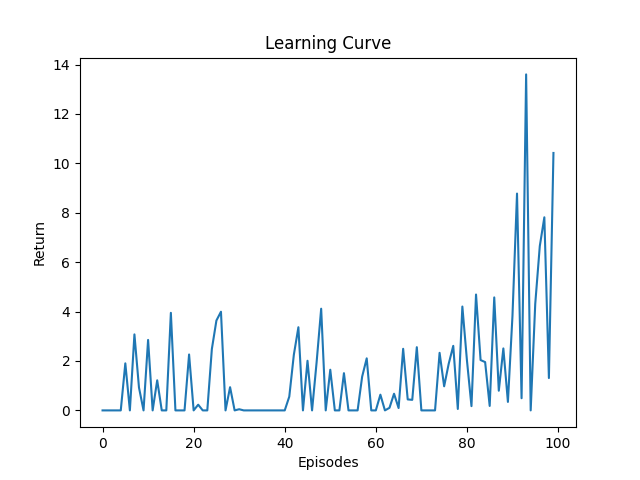
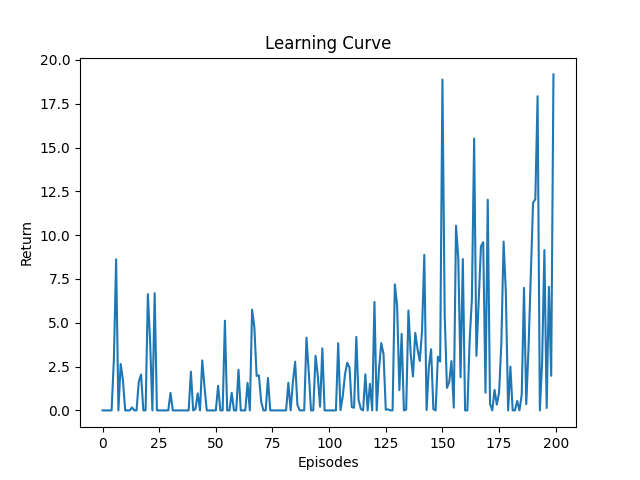
DQN

diff --git a/train_discreteaction_pendulum.py b/train_discreteaction_pendulum.py
@@ -5,6 +5,7 @@ import discreteaction_pendulum
 import torch
 import torch.nn as nn
 import torch.optim as optim
+from torchsummary import summary
 from collections import deque
 
 
@@ -14,7 +15,8 @@ class NeuralNet(nn.Module):
         super(NeuralNet, self).__init__()
         self.fc1 = nn.Linear(input_size, hidden_size)
         self.fc2 = nn.Linear(hidden_size, hidden_size)
-        self.fc3 = nn.Linear(hidden_size, output_size)
+        # self.fc3 = nn.Linear(hidden_size, hidden_size)
+        self.fc4 = nn.Linear(hidden_size, output_size)
         self.tanh = nn.Tanh()
         # self.optimizer = optim.RMSprop(self.parameters(), lr=learning_rate)
         # self.loss = nn.MSELoss()
@@ -26,7 +28,9 @@ class NeuralNet(nn.Module):
         out = self.tanh(out)
         out = self.fc2(out)
         out = self.tanh(out)
-        q_values = self.fc3(out)
+        # out = self.fc3(out)
+        # out = self.tanh(out)
+        q_values = self.fc4(out)
         return q_values
 
 #Deep Q-Network Agent
@@ -80,16 +84,10 @@ class DQN_agent:
         self.learn_step_counter += 1
 
         experience_sample = random.sample(self.memory, self.batch_size)
-        # print(experience_sample[0])
         for s,a,r,s_new,done in experience_sample:
             eval_output = self.evaluate_net(s)[a]
-            # target_output = r
-            # if not done:
             q_values = self.target_net(s_new).detach()
-            target_output = r + self.gamma*(q_values.max(0)[0])
-            # target_output = r + self.target_net.forward(s)
-            # target_output[a] = target
-            # output = self.qnetwork().forward(s)
+            target_output = r + self.gamma*(q_values.max(0)[0]) #(1-done)*self.gamma*(q_values.max(0)[0])
             loss = self.loss(eval_output, target_output)
 
             self.optimizer.zero_grad()
@@ -100,7 +98,6 @@ class DQN_agent:
             self.optimizer.step()
 
         if self.epsilon > self.epsilon_min:
-            # self.epsilon *= self.epsilon_decay
             self.epsilon -= (self.epsilon_initial - self.epsilon_min)/10000
         
         return self.evaluate_net, self.target_net
@@ -116,85 +113,155 @@ class DQN_agent:
         # pi = lambda s: self.env.num_actions // 2
         for episode in range(self.num_episodes):
             s = self.env.reset()
-            # self.log['s'].append(s)
             G = 0
             iters = 0
             done = False
             while not done:
-                if len(self.memory) < self.init_memory_size:
-                    a = random.randrange(self.env.num_actions)
-                    (s_new, r, done) = self.env.step(a)
-                    self.store_experience(s,a,r,s_new,done)
-                    s = s_new
-                    continue
-                else:
+                if len(self.memory) > self.batch_size:
+                    if len(self.memory) < self.init_memory_size:
+                        a = random.randrange(self.env.num_actions)
+                        (s_new, r, done) = self.env.step(a)
+                        self.store_experience(s,a,r,s_new,done)
+                        s = s_new
+                        continue
+                    else:
+                        a = self.epsilon_greedy(s, self.epsilon)
+                        (s_new,r,done) = self.env.step(a)
+                        iters += 1
+                        G += r*self.gamma**(iters-1)
+                        self.store_experience(s,a,r,s_new,done)
+                        evaluate_net, target_net = self.experience_replay()
+
+                elif len(self.memory) <= self.batch_size:
                     a = self.epsilon_greedy(s, self.epsilon)
                     (s_new,r,done) = self.env.step(a)
                     iters += 1
                     G += r*self.gamma**(iters-1)
                     self.store_experience(s,a,r,s_new,done)
-                    s = s_new
-                    if len(self.memory) > self.batch_size:
-                        evaluate_net, target_net = self.experience_replay()
-            pi = lambda s: torch.argmax(evaluate_net(s)).item()
+                    evaluate_net = self.evaluate_net
+                    eval_output = self.evaluate_net(s)[a]
+                    q_values = self.target_net(s_new).detach()
+                    target_output = r + self.gamma*(q_values.max(0)[0])
+                    loss = self.loss(eval_output, target_output)
+
+                    self.optimizer.zero_grad()
+                    loss.backward()
+
+                    for para in self.evaluate_net.parameters():
+                        para.grad.data.clamp_(-1,1)
+                    self.optimizer.step()
+                    if self.epsilon > self.epsilon_min:
+                        # self.epsilon *= self.epsilon_decay
+                        self.epsilon -= (self.epsilon_initial - self.epsilon_min)/50000
+                
+                s = s_new
+        
+            pi = lambda s: torch.argmax(evaluate_net(s)).item() #self.epsilon_greedy(s, epsilon=0.1) 
+            value_function = lambda s: torch.max(evaluate_net(s)).item()
             self.log['G'].append(G)
             self.log['episodes'].append(episode)
             print("Episode:", episode+1, "Return:", G, "Epsilon:", self.epsilon)
-        return evaluate_net, pi, self.log
-
-
-# def wrap_pi(x):
-#     theta = ((x + np.pi) % (2 * np.pi)) - np.pi
-#     return theta
-
+        return evaluate_net, pi, value_function, self.log
+    
 
 def main():
     env = discreteaction_pendulum.Pendulum()
-    agent = DQN_agent(env=env, learning_rate=0.00025, epsilon=1.0, num_episodes=100, target_replace_freq=1000, batch_size=32, gamma=0.95, replay_buffer=100000)
-    evaluate_net, pi, log = agent.DQN()
+    # agent = DQN_agent(env=env, learning_rate=0.00025, epsilon=1.0, num_episodes=200, target_replace_freq=2000, batch_size=32, gamma=0.95, replay_buffer=100000)
+    # evaluate_net, pi, value_function, log = agent.DQN()
+    # theta = np.linspace(-np.pi, np.pi, 100)
+    # thetadot = np.linspace(-15,15,100)
+    # theta_array, thetadot_array = np.meshgrid(theta, thetadot)
+    # pi_array = np.zeros_like(theta_array)
+    # value_array = np.zeros_like(theta_array)
+    # for i in range(len(theta)):
+    #     for j in range(len(thetadot)):
+    #         s = np.array((i,j))
+    #         pi_array[i,j] = pi(s)
+    #         value_array[i,j] = value_function(s)
+    num_runs = 20
+    num_episodes = 10
+    return_multiple_runs_standard = np.zeros((num_runs,num_episodes))
+    return_multiple_runs_no_target = np.zeros((num_runs,num_episodes))
+    return_multiple_runs_no_replay = np.zeros((num_runs,num_episodes))
+    return_multiple_runs_no_replay_no_target = np.zeros((num_runs,num_episodes))
+    for i in range(num_runs):
+        agent_1 = DQN_agent(env=env, learning_rate=0.00025, epsilon=1.0, num_episodes=num_episodes, target_replace_freq=2000, batch_size=32, gamma=0.95, replay_buffer=100000)
+        evaluate_net_1, pi_1, value_function_1, log_1 = agent_1.DQN()
+        return_multiple_runs_standard[i,:] = log_1['G']
+
+        # agent_2 = DQN_agent(env=env, learning_rate=0.00025, epsilon=1.0, num_episodes=num_episodes, target_replace_freq=1, batch_size=32, gamma=0.95, replay_buffer=100000)
+        # evaluate_net_2, pi_2, value_function_2, log_2 = agent_2.DQN()
+        # return_multiple_runs_no_target[i,:] = log_2['G']
+
+        # agent_3 = DQN_agent(env=env, learning_rate=0.00025, epsilon=1.0, num_episodes=num_episodes, target_replace_freq=2000, batch_size=32, gamma=0.95, replay_buffer=32)
+        # evaluate_net_3, pi_3, value_function_3, log_3 = agent_3.DQN()
+        # return_multiple_runs_no_replay[i,:] = log_3['G']
+
+        # agent_4 = DQN_agent(env=env, learning_rate=0.00025, epsilon=1.0, num_episodes=num_episodes, target_replace_freq=1, batch_size=32, gamma=0.95, replay_buffer=32)
+        # evaluate_net_4, pi_4, value_function_4, log_4 = agent_4.DQN()
+        # return_multiple_runs_standard[i,:] = log_4['G']
     # s = env.reset()
     # print(pi(s))
-    s = env.reset()
-    log['s'].append(s)
-    done = False
-    opt_policy = []
-    while not done:
-        a = pi(s)
-        opt_policy.append(a)
-        (s,r,done) = env.step(a)
-        log['t'].append(log['t'][-1] + 1)
-        log['s'].append(s)
-        log['a'].append(a)
-        log['r'].append(r)
-    print(opt_policy)
-    log['s'] = np.array(log['s'])
-    theta = log['s'][:,0]
-    print(theta)
-    thetadot = log['s'][:,1]
-    tau = [env._a_to_u(a) for a in log['a']]
-    fig, ax = plt.subplots(3, 1, figsize=(10, 10))
-    ax[0].plot(log['t'], theta, label='theta')
-    ax[0].plot(log['t'], thetadot, label='thetadot')
-    ax[0].axhline(y=np.pi, color='r', linestyle='-', label='Theta = pi')
-    ax[0].axhline(y=-np.pi, color='r', linestyle='-', label='Theta = -pi')
-    ax[0].axhline(y = 0, color = 'r', linestyle='--', label='Theta = 0')
-    ax[0].legend()
-    ax[1].plot(log['t'][:-1], tau, label='tau')
-    ax[1].legend()
-    ax[2].plot(log['t'][:-1], log['r'], label='r')
-    ax[2].legend()
-    ax[2].set_xlabel('time step')
-    plt.tight_layout()
-    plt.savefig('figures/test_discreteaction_pendulum.png')
+    print(return_multiple_runs_standard)
+    # s = env.reset()
+    # log['s'].append(s)
+    # done = False
+    # while not done:
+    #     a = pi(s)
+    #     (s,r,done) = env.step(a)
+    #     log['t'].append(log['t'][-1] + 1)
+    #     log['s'].append(s)
+    #     log['a'].append(a)
+    #     log['r'].append(r)
 
-    plt.figure()
-    plt.plot(log['episodes'], log['G'])
-    plt.ylabel('Return')
-    plt.xlabel('Episodes')
-    plt.title('Learning Curve')
-    plt.savefig('figures/learning_curve.png')
+    # log['s'] = np.array(log['s'])
+    # theta = log['s'][:,0]
+    # print(theta)
+    # thetadot = log['s'][:,1]
+    # tau = [env._a_to_u(a) for a in log['a']]
+    # fig, ax = plt.subplots(3, 1, figsize=(10, 10))
+    # ax[0].plot(log['t'], theta, label='theta')
+    # ax[0].plot(log['t'], thetadot, label='thetadot')
+    # ax[0].axhline(y=np.pi, color='r', linestyle='-', label='Theta = pi')
+    # ax[0].axhline(y=-np.pi, color='r', linestyle='-', label='Theta = -pi')
+    # ax[0].axhline(y = 0, color = 'r', linestyle='--', label='Theta = 0')
+    # ax[0].legend()
+    # ax[1].plot(log['t'][:-1], tau, label='tau')
+    # ax[1].legend()
+    # ax[2].plot(log['t'][:-1], log['r'], label='r')
+    # ax[2].legend()
+    # ax[2].set_xlabel('time step')
+    # plt.tight_layout()
+    # plt.savefig('figures/test_discreteaction_pendulum.png')
 
-    # env.video(pi, filename='figures/test_discreteaction_pendulum.gif')
+    # plt.figure()
+    # plt.plot(log['episodes'], log['G'])
+    # plt.ylabel('Return')
+    # plt.xlabel('Episodes')
+    # plt.title('Learning Curve')
+    # plt.savefig('figures/learning_curve.png')
+
+    # plt.figure()
+    # plt.contourf(theta_array, thetadot_array, pi_array)
+    # # plt.scatter(theta, thetadot, c = [pi(s) for s in log['s']])
+    # plt.colorbar()
+    # plt.xlabel(r"$\theta$")
+    # plt.ylabel(r"$\dot{\theta}$")
+    # plt.title("Plot of Optimal Policy")
+    # plt.savefig('figures/policy.png')
+
+    # plt.figure()
+    # plt.contourf(theta_array, thetadot_array, value_array)
+    # # plt.scatter(theta, thetadot, c = [value_function(s) for s in log['s']])
+    # plt.colorbar()
+    # plt.xlabel(r"$\theta$")
+    # plt.ylabel(r"$\dot{\theta}$")
+    # plt.title("Plot of Value Function")
+    # plt.savefig('figures/value_function.png')
+
+    # env.video(pi, filename='figures/optimal_discreteaction_pendulum.gif')
+
+
 if __name__ == "__main__":
     main()
 
